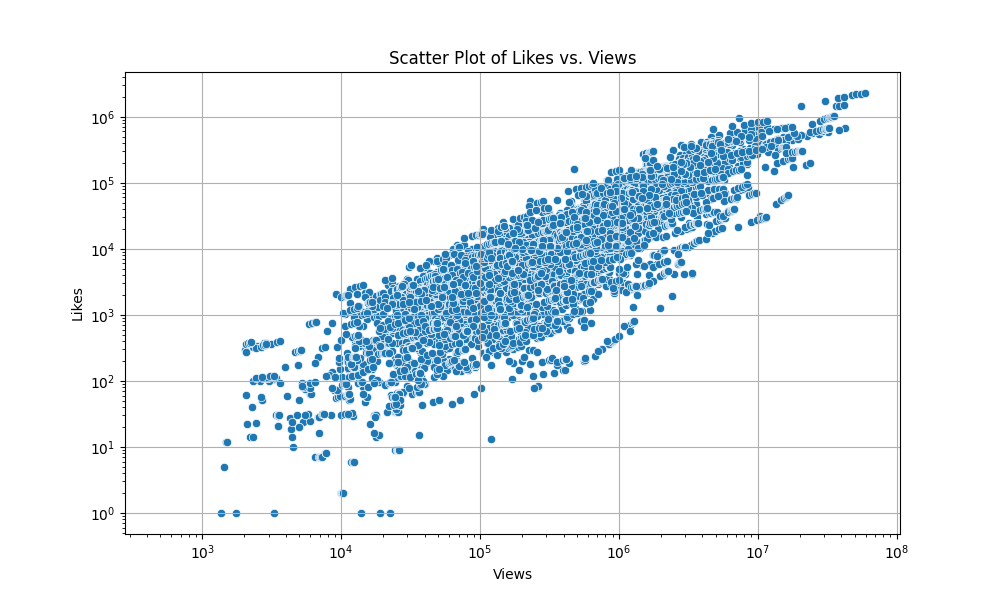
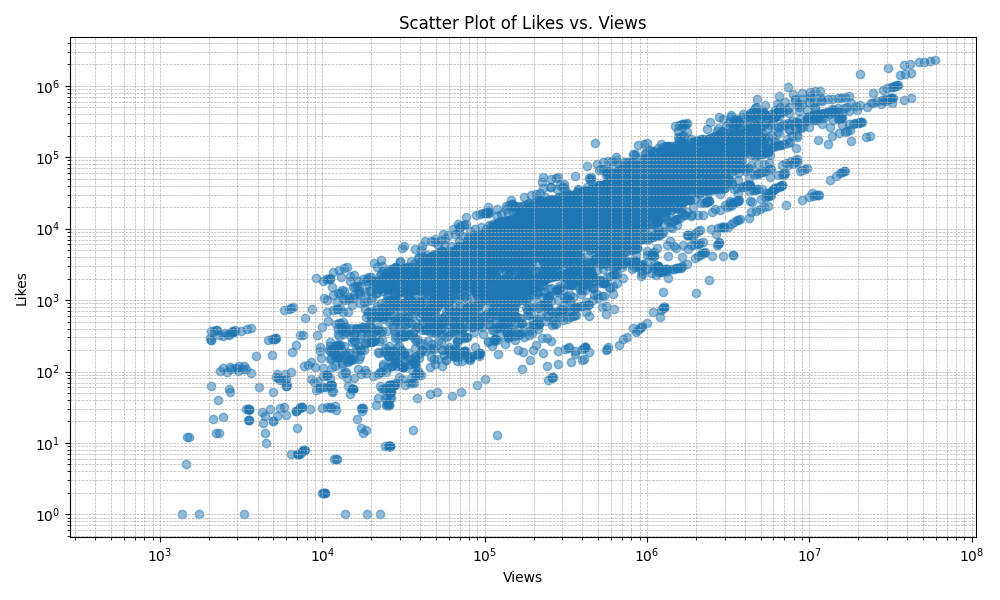
minor changes

Changed region(s): [[0.0, 0.03, 0.992, 0.93], [0.496, 0.93, 0.558, 0.99]]

diff --git a/Q1/Q1_EDA.py b/Q1/Q1_EDA.py
@@ -263,3 +263,16 @@ combined_top_10_channel(top_10_channels_views_us, top_10_channels_views_gb, 'vie
 combined_top_10_channel(top_10_channels_likes_us, top_10_channels_likes_gb, 'likes', 'combined_top_10_channels_likes.png')
 combined_top_10_channel(top_10_channels_dislikes_us, top_10_channels_dislikes_gb, 'dislikes', 'combined_top_10_channels_dislikes.png')
 combined_top_10_channel(top_10_channels_comments_us, top_10_channels_comments_gb, 'comment_total', 'combined_top_10_channels_comments.png')
+
+# Scatter plot of Likes vs. Views
+plt.figure(figsize=(10, 6))
+plt.scatter(df_gb_videos['views'], df_gb_videos['likes'], alpha=0.5)
+plt.xscale('log')  # Use logarithmic scale for better visualization
+plt.yscale('log')  # Use logarithmic scale for better visualization
+plt.xlabel('Views')
+plt.ylabel('Likes')
+plt.title('Scatter Plot of Likes vs. Views')
+plt.grid(True, which="both", linestyle='--', linewidth=0.5)
+plt.tight_layout()
+plt.savefig('Q1/likes_vs_views.png')  # Save the plot as a PNG file
+plt.show()
